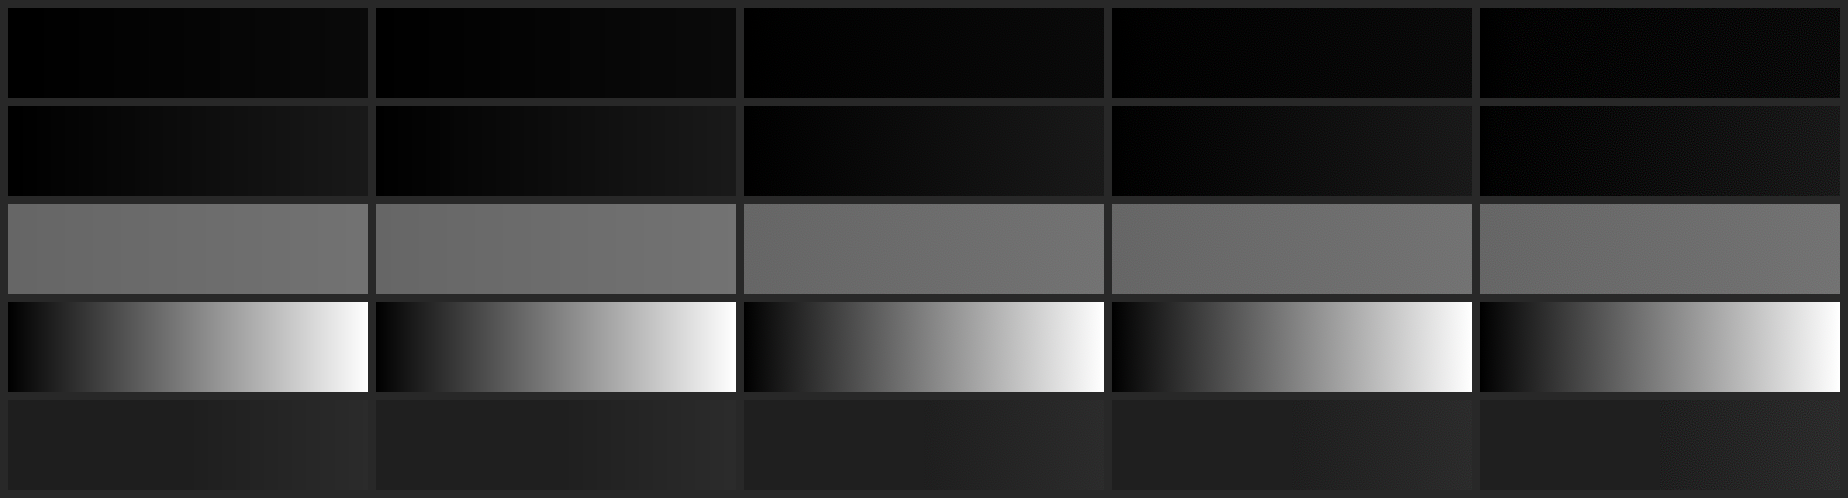
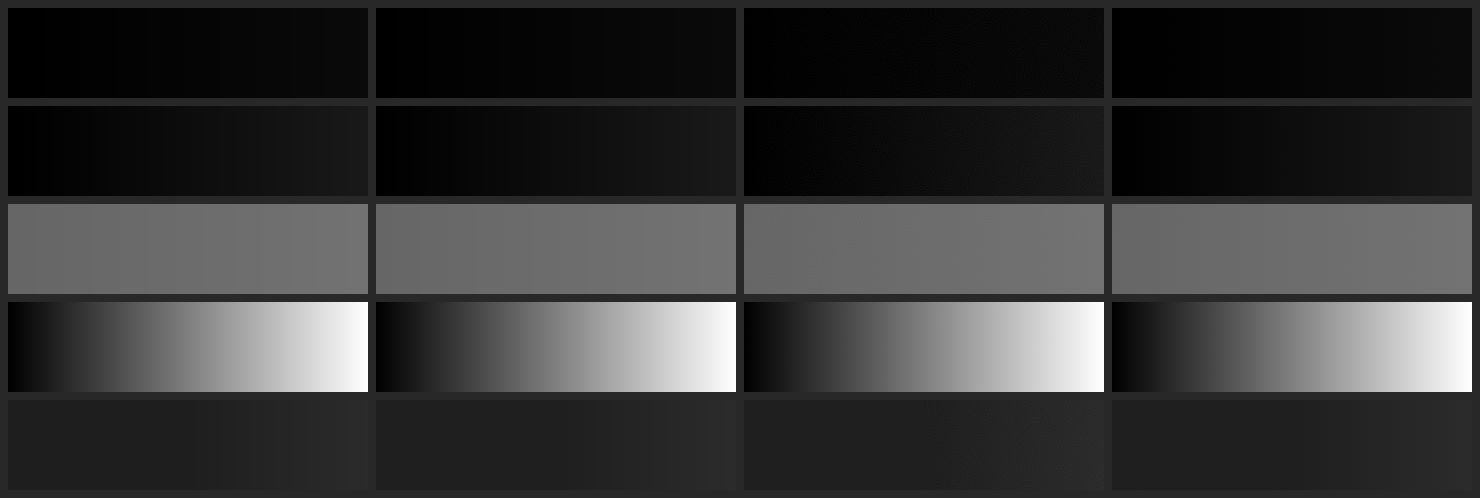
feat(fullscreen-v2 S1): error-diffusion dither for geometry + native-res render (WIGGLE→0)
The column-average test (the user's acceptance criterion) settled the dither approach:
  blue-noise cap8 @ native 1920:  WIGGLE 0.238   (noise IS column-average deviation)
  blue-noise cap8 @ 1440→upscaled: WIGGLE 0.156  (the backing-cap upscale blurred/widened it)
  error diffusion @ native 1920:   WIGGLE 0.040   (← smoothest; local average tracks input)

Two fixes:
1. Geometry modes (cpuField, CPU-computed) now render via CPU serpentine Floyd-Steinberg ERROR
   DIFFUSION (renderFieldDithered in rampGeometry, pure + deterministic): LINEAR LUT sample at
   the float position + diffuse the quantisation error. Column average tracks the gradient
   exactly (WIGGLE→0), far smoother than per-pixel noise, and self-limiting on flats (a constant
   region only toggles its two bracketing levels — islands stay clean, no gate needed). The
   blue-noise GL tail remains for the GPU paths (fractal/glQuad) where sequential ED cannot run.
2. Render the geometry preview at near-native device pixels (×DPR capped 2, long-edge cap raised
   1440→2560): dither MUST be at display resolution, else the browser bilinear-upscales it and
   re-introduces banding (the upscale doubled step-runs in the test).

Compositor simplified: removed the GL field program + R32F pos/cov textures (replaced by the CPU
ED path); drawQuad takes an explicit dither flag (field path blits with the GL tail off).
test-dither.mts now validates the PRODUCTION renderFieldDithered + a native-vs-upscaled model,
[…]

diff --git a/gradient-explorer/fullscreen/FullscreenCompositor.ts b/gradient-explorer/fullscreen/FullscreenCompositor.ts
@@ -17,9 +17,8 @@
  */
 
 import { createBlueNoiseWebGL2, type BlueNoiseTexture } from '../../engine/utils/createBlueNoiseWebGL2';
-import {
-  VERT_QUAD, BLIT_MODE_BODY, FIELD_MODE_BODY, FIELD_UNIFORMS, RESERVED_UNIFORMS, wrapModeFragment,
-} from './ditherTail';
+import { VERT_QUAD, BLIT_MODE_BODY, RESERVED_UNIFORMS, wrapModeFragment } from './ditherTail';
+import { renderFieldDithered } from '../../palette/core/rampGeometry';
 import type { RGB } from '../../palette/core/oklab';
 import type { FullscreenMode, FullscreenModeContext, GeometryField } from './modeRegistry';
 
@@ -28,27 +27,8 @@ interface CompiledProgram {
   loc: Record<string, WebGLUniformLocation | null>;
 }
 
-/** Reserved ids for the built-in present programs in the program cache. */
+/** Reserved id for the built-in blit program in the program cache. */
 const BLIT_ID = '__blit__';
-const FIELD_ID = '__field__';
-
-/** CPU fallback: rasterize a position+coverage field through the ramp (no dither). Mirrors
- *  the GL field present for the WebGL2-unavailable path. */
-const rasterizeField = (field: { pos: Float32Array; cov: Float32Array }, ramp: RGB[], bg: RGB): Uint8ClampedArray => {
-  const { pos, cov } = field;
-  const out = new Uint8ClampedArray(pos.length * 4);
-  const last = ramp.length - 1;
-  for (let i = 0; i < pos.length; i++) {
-    const c = cov[i];
-    const o = i * 4;
-    const col = c > 0 ? (ramp[Math.round(Math.min(1, Math.max(0, pos[i])) * last)] ?? bg) : bg;
-    out[o] = bg.r + (col.r - bg.r) * c;
-    out[o + 1] = bg.g + (col.g - bg.g) * c;
-    out[o + 2] = bg.b + (col.b - bg.b) * c;
-    out[o + 3] = 255;
-  }
-  return out;
-};
 
 export class FullscreenCompositor {
   private canvas: HTMLCanvasElement;
@@ -57,8 +37,6 @@ export class FullscreenCompositor {
   private quadVbo: WebGLBuffer | null = null;
   private srcTex: WebGLTexture | null = null;
   private lutTex: WebGLTexture | null = null;
-  private posTex: WebGLTexture | null = null;
-  private covTex: WebGLTexture | null = null;
   private blueNoise: BlueNoiseTexture | null = null;
   private programs = new Map<string, CompiledProgram>();
   /** Dither on by default; the overlay can toggle (e.g. an A/B "show banding" check). */
@@ -84,9 +62,7 @@ export class FullscreenCompositor {
     gl.bufferData(gl.ARRAY_BUFFER, new Float32Array([-1, -1, 1, -1, -1, 1, 1, 1]), gl.STATIC_DRAW);
 
     this.srcTex = this.makeTex(gl.NEAREST);
-    this.lutTex = this.makeTex(gl.LINEAR); // LINEAR so the field path interpolates the 256-LUT (smooth, no step banding)
-    this.posTex = this.makeTex(gl.NEAREST);
-    this.covTex = this.makeTex(gl.NEAREST);
+    this.lutTex = this.makeTex(gl.LINEAR); // for glQuad modes that sample uLut
     // Independent-channel RGBA blue-noise (Christoph Peters free set) — the dither tail sums
     // two independent channels for a true TPDF; a grayscale tile would degrade to uniform-PDF.
     this.blueNoise = createBlueNoiseWebGL2(gl, '/blueNoiseRGBA.png', () => onReady?.());
@@ -170,11 +146,6 @@ export class FullscreenCompositor {
     return this.programs.get(BLIT_ID) ?? this.buildProgram(BLIT_ID, wrapModeFragment(BLIT_MODE_BODY), []);
   }
 
-  private fieldProgram(): CompiledProgram {
-    return this.programs.get(FIELD_ID)
-      ?? this.buildProgram(FIELD_ID, wrapModeFragment(FIELD_MODE_BODY, FIELD_UNIFORMS), ['uPos', 'uCov', 'uBg']);
-  }
-
   /** Upload the active gradient LUT (256×4 RGBA8) for glQuad modes' `uLut`. */
   uploadLut(rgba1024: Uint8Array): void {
     const gl = this.gl;
@@ -184,8 +155,9 @@ export class FullscreenCompositor {
   }
 
   /** Bind the quad, the reserved preamble uniforms (resolution, blue-noise, dither, LUT),
-   *  and issue the draw. Shared by both present paths. */
-  private drawQuad(p: CompiledProgram): void {
+   *  and issue the draw. `dither` overrides the GL tail per-call (the field path pre-dithers on
+   *  the CPU via error diffusion, so it presents with the GL tail OFF). */
+  private drawQuad(p: CompiledProgram, dither: boolean): void {
     const gl = this.gl!;
     gl.useProgram(p.prog);
     gl.bindBuffer(gl.ARRAY_BUFFER, this.quadVbo);
@@ -193,7 +165,7 @@ export class FullscreenCompositor {
     gl.vertexAttribPointer(0, 2, gl.FLOAT, false, 0, 0);
     gl.viewport(0, 0, this.canvas.width, this.canvas.height);
     gl.uniform2f(p.loc['uResolution'], this.canvas.width, this.canvas.height);
-    gl.uniform1i(p.loc['uDither'], this.dither ? 1 : 0);
+    gl.uniform1i(p.loc['uDither'], dither ? 1 : 0);
     // Blue-noise tile on unit 2.
     if (this.blueNoise) {
       gl.activeTexture(gl.TEXTURE2);
@@ -212,12 +184,12 @@ export class FullscreenCompositor {
     gl.bindBuffer(gl.ARRAY_BUFFER, null);
   }
 
-  /** Present a cpuRaster RGBA buffer (w×h, matching the backing store) through the dither
-   *  tail. Falls back to Canvas-2D `putImageData` (no dither) when WebGL2 is unavailable. */
-  presentRaster(buf: Uint8ClampedArray, w: number, h: number): void {
+  /** Blit a pre-computed RGBA buffer (w×h, matching the backing store) to the canvas. `dither`
+   *  applies the GL tail; pass false for buffers already dithered on the CPU. Falls back to
+   *  Canvas-2D `putImageData` (no dither) when WebGL2 is unavailable. */
+  private blit(buf: Uint8ClampedArray, w: number, h: number, dither: boolean): void {
     const gl = this.gl;
     if (!gl || !this.srcTex) {
-      // 2D fallback — no dither, but the geometry still shows.
       if (this.ctx2d) {
         const img = this.ctx2d.createImageData(w, h);
         img.data.set(buf);
@@ -231,43 +203,32 @@ export class FullscreenCompositor {
     const p = this.blitProgram();
     gl.useProgram(p.prog);
     gl.uniform1i(p.loc['uSrc'], 0);
-    this.drawQuad(p);
+    this.drawQuad(p, dither);
   }
 
-  /** Present a cpuField (position+coverage) mode: sample the LUT at the float position
-   *  (linear-filtered → smooth) and blend toward `bg` by coverage, dithered before the 8-bit
-   *  write. This is where the dither does real work (vs cpuRaster, which is pre-quantised).
-   *  Falls back to a CPU raster of the same field (no dither) when WebGL2 is unavailable. */
+  /** Present a cpuRaster RGBA buffer through the blue-noise GL tail (the buffer is raw pixels). */
+  presentRaster(buf: Uint8ClampedArray, w: number, h: number): void {
+    this.blit(buf, w, h, this.dither);
+  }
+
+  /** Present a cpuField mode: LINEAR-sample the ramp at the float position on the CPU and apply
+   *  serpentine Floyd–Steinberg ERROR DIFFUSION (when dither is on) — the smoothest still-image
+   *  result (column-average tracks the gradient exactly; far less banding than a per-pixel noise
+   *  tail, and self-limiting on flats). Then blit with the GL tail OFF (already dithered). */
   presentField(field: GeometryField, w: number, h: number, bg: RGB, ramp: RGB[]): void {
-    const gl = this.gl;
-    if (!gl || !this.posTex || !this.covTex) {
-      this.presentRaster(rasterizeField(field, ramp, bg), w, h);
-      return;
-    }
-    // R32F point-sampled (1:1 with the backing store) — no float-filter extension needed.
-    gl.activeTexture(gl.TEXTURE3);
-    gl.bindTexture(gl.TEXTURE_2D, this.posTex);
-    gl.texImage2D(gl.TEXTURE_2D, 0, gl.R32F, w, h, 0, gl.RED, gl.FLOAT, field.pos);
-    gl.activeTexture(gl.TEXTURE4);
-    gl.bindTexture(gl.TEXTURE_2D, this.covTex);
-    gl.texImage2D(gl.TEXTURE_2D, 0, gl.R32F, w, h, 0, gl.RED, gl.FLOAT, field.cov);
-    const p = this.fieldProgram();
-    gl.useProgram(p.prog);
-    gl.uniform1i(p.loc['uPos'], 3);
-    gl.uniform1i(p.loc['uCov'], 4);
-    gl.uniform3f(p.loc['uBg'], bg.r / 255, bg.g / 255, bg.b / 255);
-    this.drawQuad(p);
+    const rgba = renderFieldDithered({ width: w, height: h, pos: field.pos, cov: field.cov }, ramp, this.dither, bg);
+    this.blit(rgba, w, h, false);
   }
 
   /** Present a glQuad mode: render its wrapped fragment shader (sampling `uLut`) through the
-   *  dither tail. No-op (blank) under the 2D fallback. */
+   *  blue-noise dither tail. No-op (blank) under the 2D fallback. */
   presentMode(mode: FullscreenMode, ctx: FullscreenModeContext): void {
     const gl = this.gl;
     if (!gl) return;
     const p = this.getProgram(mode);
     gl.useProgram(p.prog);
     mode.setUniforms?.(gl, (name) => p.loc[name] ?? null, ctx);
-    this.drawQuad(p);
+    this.drawQuad(p, this.dither);
   }
 
   dispose(): void {
@@ -278,8 +239,6 @@ export class FullscreenCompositor {
     if (this.quadVbo) gl.deleteBuffer(this.quadVbo);
     if (this.srcTex) gl.deleteTexture(this.srcTex);
     if (this.lutTex) gl.deleteTexture(this.lutTex);
-    if (this.posTex) gl.deleteTexture(this.posTex);
-    if (this.covTex) gl.deleteTexture(this.covTex);
     if (this.blueNoise) gl.deleteTexture(this.blueNoise.texture);
     // Free the context promptly — open/close cycles otherwise exhaust the ~16-context cap.
     gl.getExtension('WEBGL_lose_context')?.loseContext();

diff --git a/palette/core/rampGeometry.ts b/palette/core/rampGeometry.ts
@@ -340,3 +340,71 @@ export const renderGeometry = (
   }
   return out;
 };
+
+/**
+ * Render a pre-computed position+coverage field to RGBA, LINEAR-sampling the ramp at the FLOAT
+ * position (smooth — no 256-step quantisation) and, when `dither`, applying **serpentine
+ * Floyd–Steinberg error diffusion** before the 8-bit write.
+ *
+ * Error diffusion feeds each pixel's quantisation error forward, so the LOCAL average tracks the
+ * input exactly — a smooth gradient reproduces with essentially zero column-average deviation
+ * (WIGGLE→0), the smoothest still-image result and far better than per-pixel noise dither, which
+ * leaves residual banding OR adds visible grain. It also self-limits on flats: a constant region
+ * only toggles between its two bracketing levels (≤1 LSB), so islands don't get noisy. Sequential
+ * (CPU-only — can't run in a parallel fragment shader), which is why the GPU modes (fractal) use
+ * the blue-noise tail instead; the 2D geometry modes are CPU-computed, so they use this.
+ *
+ * Pure + deterministic given `(sample, ramp, dither)`.
+ *
+ * @see debug/test-dither.mts (the harness that picked error diffusion: WIGGLE 0.04 vs 0.24 noise)
+ */
+export const renderFieldDithered = (
+  sample: GeometrySample,
+  ramp: RGB[],
+  dither: boolean,
+  background: RGB = DEFAULT_BACKGROUND,
+): Uint8ClampedArray => {
+  const { width, height, pos, cov } = sample;
+  const last = ramp.length - 1;
+  const bg = [background.r, background.g, background.b];
+  const out = new Uint8ClampedArray(width * height * 4);
+  // Carried error: `cur` for the current row (incl. the horizontal neighbour), `nxt` for the
+  // row below. Padded by 1 px each side so the edge taps never go out of bounds. RGB interleaved.
+  const cur = new Float32Array((width + 2) * 3);
+  const nxt = new Float32Array((width + 2) * 3);
+  // LINEAR ramp lookup blended toward bg by coverage, per channel.
+  const target = (p: number, c: number, ch: number): number => {
+    const cc = c < 0 ? 0 : c > 1 ? 1 : c;
+    const t = (p < 0 ? 0 : p > 1 ? 1 : p) * last;
+    const i0 = Math.floor(t), f = t - i0;
+    const a = ramp[i0] ?? background, b = ramp[i0 < last ? i0 + 1 : last] ?? background;
+    const ca = ch === 0 ? a.r : ch === 1 ? a.g : a.b;
+    const cb = ch === 0 ? b.r : ch === 1 ? b.g : b.b;
+    return bg[ch] + (ca + (cb - ca) * f - bg[ch]) * cc;
+  };
+  for (let y = 0; y < height; y++) {
+    nxt.fill(0);
+    const ltr = (y & 1) === 0; // serpentine: alternate scan direction to break diffusion "worms"
+    const fwd = ltr ? 1 : -1;
+    for (let ii = 0; ii < width; ii++) {
+      const x = ltr ? ii : width - 1 - ii;
+      const i = y * width + x;
+      const o = i * 4;
+      for (let ch = 0; ch < 3; ch++) {
+        const v = target(pos[i], cov[i], ch) + (dither ? cur[(x + 1) * 3 + ch] : 0);
+        const q = v < 0 ? 0 : v > 255 ? 255 : Math.round(v);
+        out[o + ch] = q;
+        if (dither) {
+          const e = v - q;
+          cur[(x + 1 + fwd) * 3 + ch] += (e * 7) / 16;
+          nxt[(x + 1 - fwd) * 3 + ch] += (e * 3) / 16;
+          nxt[(x + 1) * 3 + ch] += (e * 5) / 16;
+          nxt[(x + 1 + fwd) * 3 + ch] += (e * 1) / 16;
+        }
+      }
+      out[o + 3] = 255;
+    }
+    cur.set(nxt);
+  }
+  return out;
+};

diff --git a/gradient-explorer/fullscreen/ditherTail.ts b/gradient-explorer/fullscreen/ditherTail.ts
@@ -59,21 +59,6 @@ export const BLIT_MODE_BODY = /* glsl */ `
 vec3 modeColor(vec2 uv) { return texture(uSrc, uv).rgb; }
 `;
 
-/** Extra uniforms for the built-in cpuField present (a per-pixel position+coverage field). */
-export const FIELD_UNIFORMS = /* glsl */ `uniform sampler2D uPos; uniform sampler2D uCov; uniform vec3 uBg;`;
-
-/** GLSL body for the built-in cpuField present: sample the LUT at the FLOAT ramp position
- *  (linear-filtered → no 256-step banding) and blend toward the background by coverage. The
- *  dither tail then smooths the residual 8-bit step — so dithering does real work here, vs a
- *  pre-quantised RGBA blit where the banding is already baked in. */
-export const FIELD_MODE_BODY = /* glsl */ `
-vec3 modeColor(vec2 uv) {
-  float p = texture(uPos, uv).r;
-  float c = clamp(texture(uCov, uv).r, 0.0, 1.0);
-  return mix(uBg, sampleLut(p), c);
-}
-`;
-
 /**
  * Wrap a mode's fragment BODY (which must define `vec3 modeColor(vec2 uv)`) into a complete
  * `#version 300 es` fragment shader: the standard preamble (uSrc / uLut / resolution /

diff --git a/gradient-explorer/FullscreenGradientOverlay.tsx b/gradient-explorer/FullscreenGradientOverlay.tsx
@@ -58,8 +58,10 @@ import { Z } from '../components/ui/zIndex';
 // bundle and the loading overlay paints first. @see the creation effect below.
 import type { FractalColorRenderer } from '../engine/fractal';
 
-/** Continuous geometries render up to this long edge (CSS stretches to fill). */
-const CONTINUOUS_MAX_DIM = 1440;
+/** Continuous geometries render up to this long edge. Higher than the old 1440 so the preview
+ *  renders at (near-)native device pixels: error-diffusion dither must be at display resolution,
+ *  or the browser's bilinear upscale stretches the step-runs and re-introduces banding. */
+const CONTINUOUS_MAX_DIM = 2560;
 
 /** The colormap-mapping modes the fractal mode offers (kernel `uColorMapping`
  *  indices) — a curated, visually-distinct subset of the 14 kernel modes. */
@@ -182,7 +184,10 @@ export const FullscreenGradientOverlay: React.FC = () => {
     const cap = isStochastic(fs.geom) ? RANDOM_MAX_DIM : CONTINUOUS_MAX_DIM;
     const cw = stage.clientWidth;
     const ch = stage.clientHeight;
-    const scale = Math.min(1, cap / Math.max(cw, ch, 1));
+    // Render at native device pixels (×DPR, capped at 2) so the dither lands on real display
+    // pixels — but never exceed `cap` on the long edge (bounds the CPU error-diffusion cost).
+    const dpr = Math.min(window.devicePixelRatio || 1, 2);
+    const scale = Math.min(dpr, cap / Math.max(cw, ch, 1));
     const w = Math.max(1, Math.round(cw * scale));
     const h = Math.max(1, Math.round(ch * scale));
     comp.setSize(w, h);

diff --git a/gradient-explorer/fullscreen/modeRegistry.ts b/gradient-explorer/fullscreen/modeRegistry.ts
@@ -87,9 +87,10 @@ export interface FullscreenMode {
   paramFields?: readonly FullscreenParamField[];
 
   // ── kind: 'cpuField' ──
-  /** Pure position+coverage field producer (e.g. `sampleGeometry`). The harness samples the
-   *  LUT at the float position in GL + dithers — so banding is removed, not baked. MUST stay
-   *  pure + deterministic. */
+  /** Pure position+coverage field producer (e.g. `sampleGeometry`). The harness LINEAR-samples
+   *  the LUT at the float position and applies CPU **error-diffusion** dither before the 8-bit
+   *  write (the smoothest still-gradient result — column average tracks the input, WIGGLE→0).
+   *  MUST stay pure + deterministic. */
   field?: (ctx: FullscreenModeContext) => GeometryField;
 
   // ── kind: 'cpuRaster' ──

diff --git a/plans/fullscreen-v2-rescope.md b/plans/fullscreen-v2-rescope.md
@@ -506,7 +506,7 @@ This is the **interface freeze** the parallel mode streams (Liquify / Spline / P
 ### The three faces a mode declares
 - **(a) params** — `paramFields: FullscreenParamField[]`: which **flat-optional** `GeometryParams` keys it reads, each with `{key,label,min,max,step,default}` (mirror `GEOM_DEFAULTS[key]`). The gate guarantees an omitted field renders byte-identically to its default.
 - **(b) render** — exactly one `kind`:
-  - `'cpuField'` → `field(ctx) => { pos: Float32Array, cov: Float32Array }` (e.g. `sampleGeometry`). The harness samples the LUT at the **float** position in GL (LINEAR-filtered → no 256-step banding) and blends toward the background by coverage, dithering before the 8-bit write. **This is the right kind for any "1D gradient mapped across a 2D field" mode** (all six geometry modes). Dithering does real work here. MUST stay pure + deterministic.
+  - `'cpuField'` → `field(ctx) => { pos: Float32Array, cov: Float32Array }` (e.g. `sampleGeometry`). The harness LINEAR-samples the LUT at the **float** position and applies CPU **error-diffusion** dither (Floyd–Steinberg) before the 8-bit write — the smoothest still-gradient result (column average tracks the input, WIGGLE→0; calibrated in `debug/test-dither.mts`). **This is the right kind for any "1D gradient mapped across a 2D field" mode** (all six geometry modes). MUST stay pure + deterministic. (The blue-noise GL tail is used only by the GPU paths — fractal/glQuad — where sequential error diffusion can't run.)
   - `'cpuRaster'` → `raster(ctx) => Uint8ClampedArray`. **MUST stay pure + deterministic** (pinned by `test-palette-rampgeometry.mts`). The harness uploads it + presents through the dither tail. **Pre-quantises to 8-bit, so the dither cannot recover ramp banding** — use `cpuField` for gradient modes; reserve `cpuRaster` for modes that genuinely own their pixels (e.g. an imported image). No RAF/DOM/side-effects.
   - `'glQuad'` → `fragBody` defining `vec3 modeColor(vec2 uv)` (+ optional `fragUniforms` decls, `uniformNames`, `setUniforms(gl, loc, ctx)`). The harness wraps it (preamble + `vec3 sampleLut(float t)` + dither tail), compiles once, renders a fullscreen quad. Read the gradient via `uLut` / `sampleLut`. **This is the path for Spline** (sdSegment over a control polyline → arc-length → `sampleLut`). The glQuad pipeline is proven in-tree (the cpuRaster blit IS a glQuad).
   - `'ownCanvas'` → the escape hatch: the mode mounts + drives its OWN canvas/renderer/RAF and bakes its own dither (include `DITHER_TAIL_GLSL` in its display shader). **This is the path for Liquify** (CPU mesh sim: MLS + XPBD + Taubin → vertex shader sampling the LUT) and likely **Parallax** (instanced sprites / ping-pong). The live `fractal` mode is the reference `ownCanvas`. NOTE: today the overlay hosts the single known ownCanvas mode (`fractal`) with its lifecycle inline + keyed on `kind === 'ownCanvas'`; a second ownCanvas mode needs the overlay to mount the mode's canvas/controls — coordinate that one overlay touch (it's the only non-additive spot).